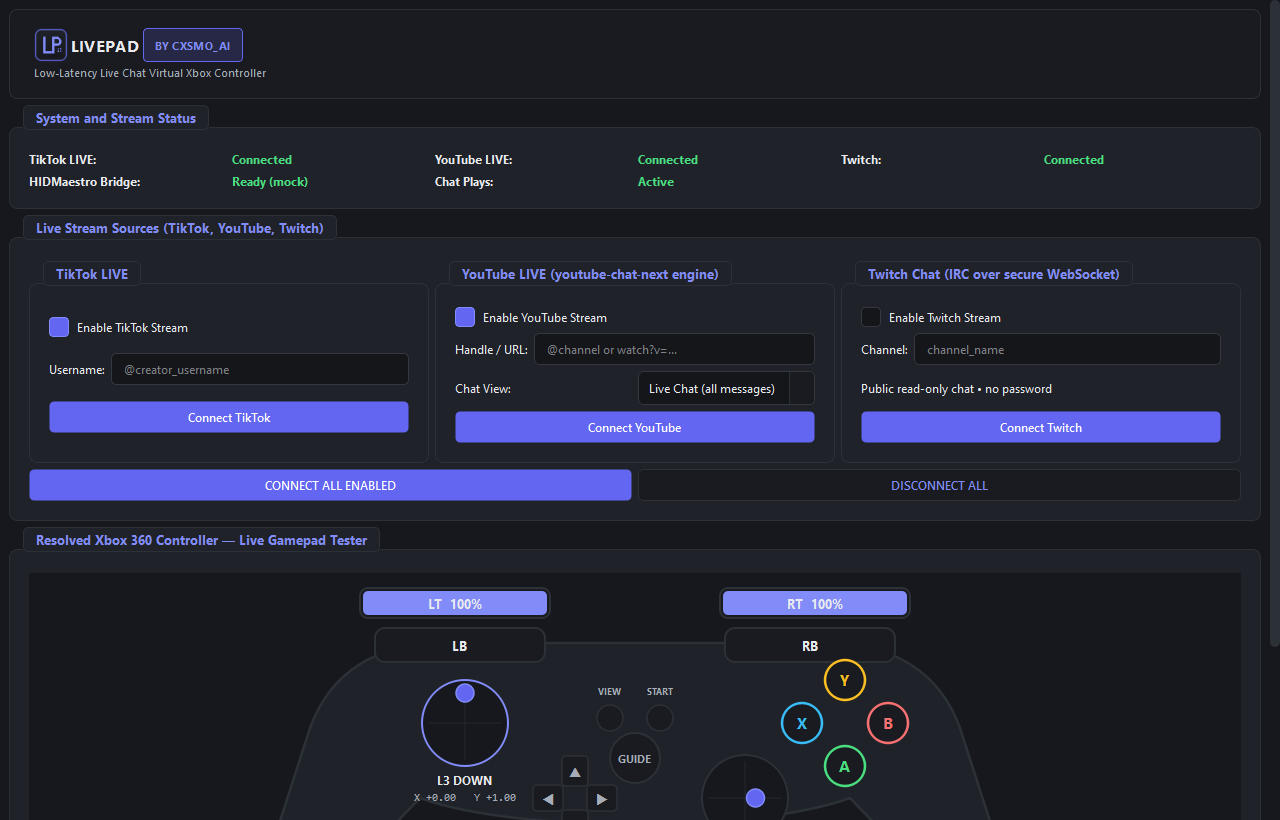
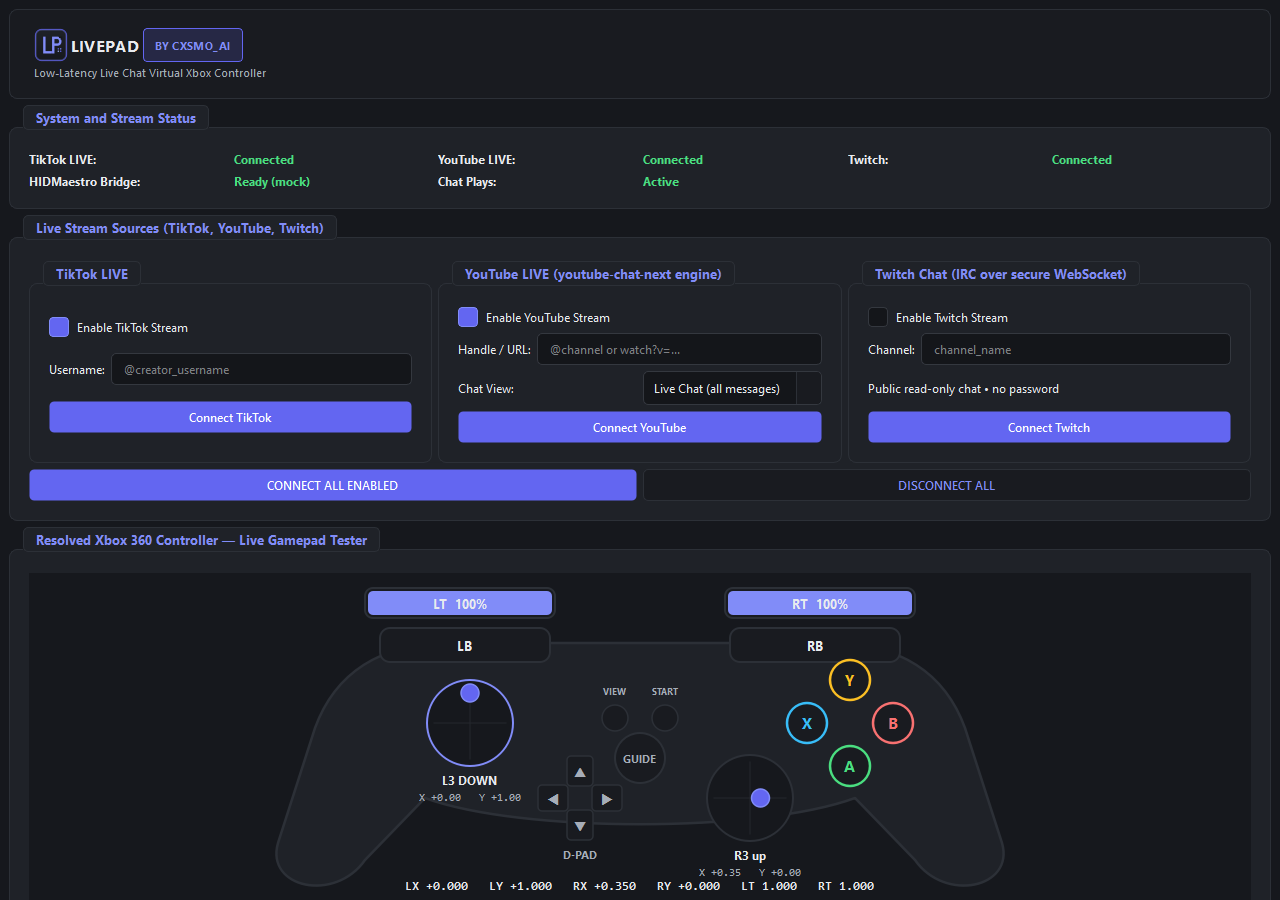
Capture complete scrollable desktop UI

diff --git a/tools/capture_ui_screenshots.py b/tools/capture_ui_screenshots.py
@@ -13,8 +13,7 @@ ROOT = Path(__file__).resolve().parents[1]
 OUTPUT = ROOT / "docs" / "images"
 sys.path.insert(0, str(ROOT))
 
-from PyQt6.QtCore import QTimer
-from PyQt6.QtWidgets import QApplication
+from PyQt6.QtWidgets import QApplication, QScrollArea
 
 from chat_gamepad_app import ChatGamepadWindow
 
@@ -50,13 +49,26 @@ def capture() -> int:
     )
     app.processEvents()
 
-    full_size = window.size()
-    window.grab().save(str(OUTPUT / "livepad-desktop-full.png"), "PNG")
+    scroll = window.findChild(QScrollArea)
+    if scroll is None or scroll.widget() is None:
+        raise RuntimeError("LivePad scrollable content was not found")
+
+    # The live app viewport is intentionally scrollable. Capture the content
+    # widget itself at its natural layout height so the repository image shows
+    # the complete workspace, including chat and safety controls below the fold.
+    content = scroll.widget()
+    content_width = max(1280, content.sizeHint().width())
+    content_height = content.layout().sizeHint().height()
+    scroll.setWidgetResizable(False)
+    content.resize(content_width, content_height)
+    app.processEvents()
+    full_capture = content.grab()
+    full_capture.save(str(OUTPUT / "livepad-desktop-full.png"), "PNG")
 
     # A compact crop keeps the README preview readable without hiding the
     # controller tester and test-mode controls.
-    crop_height = min(full_size.height(), 820)
-    window.grab().copy(0, 0, full_size.width(), crop_height).save(
+    crop_height = min(full_capture.height(), 900)
+    full_capture.copy(0, 0, full_capture.width(), crop_height).save(
         str(OUTPUT / "livepad-desktop-preview.png"), "PNG"
     )
     window.close()
